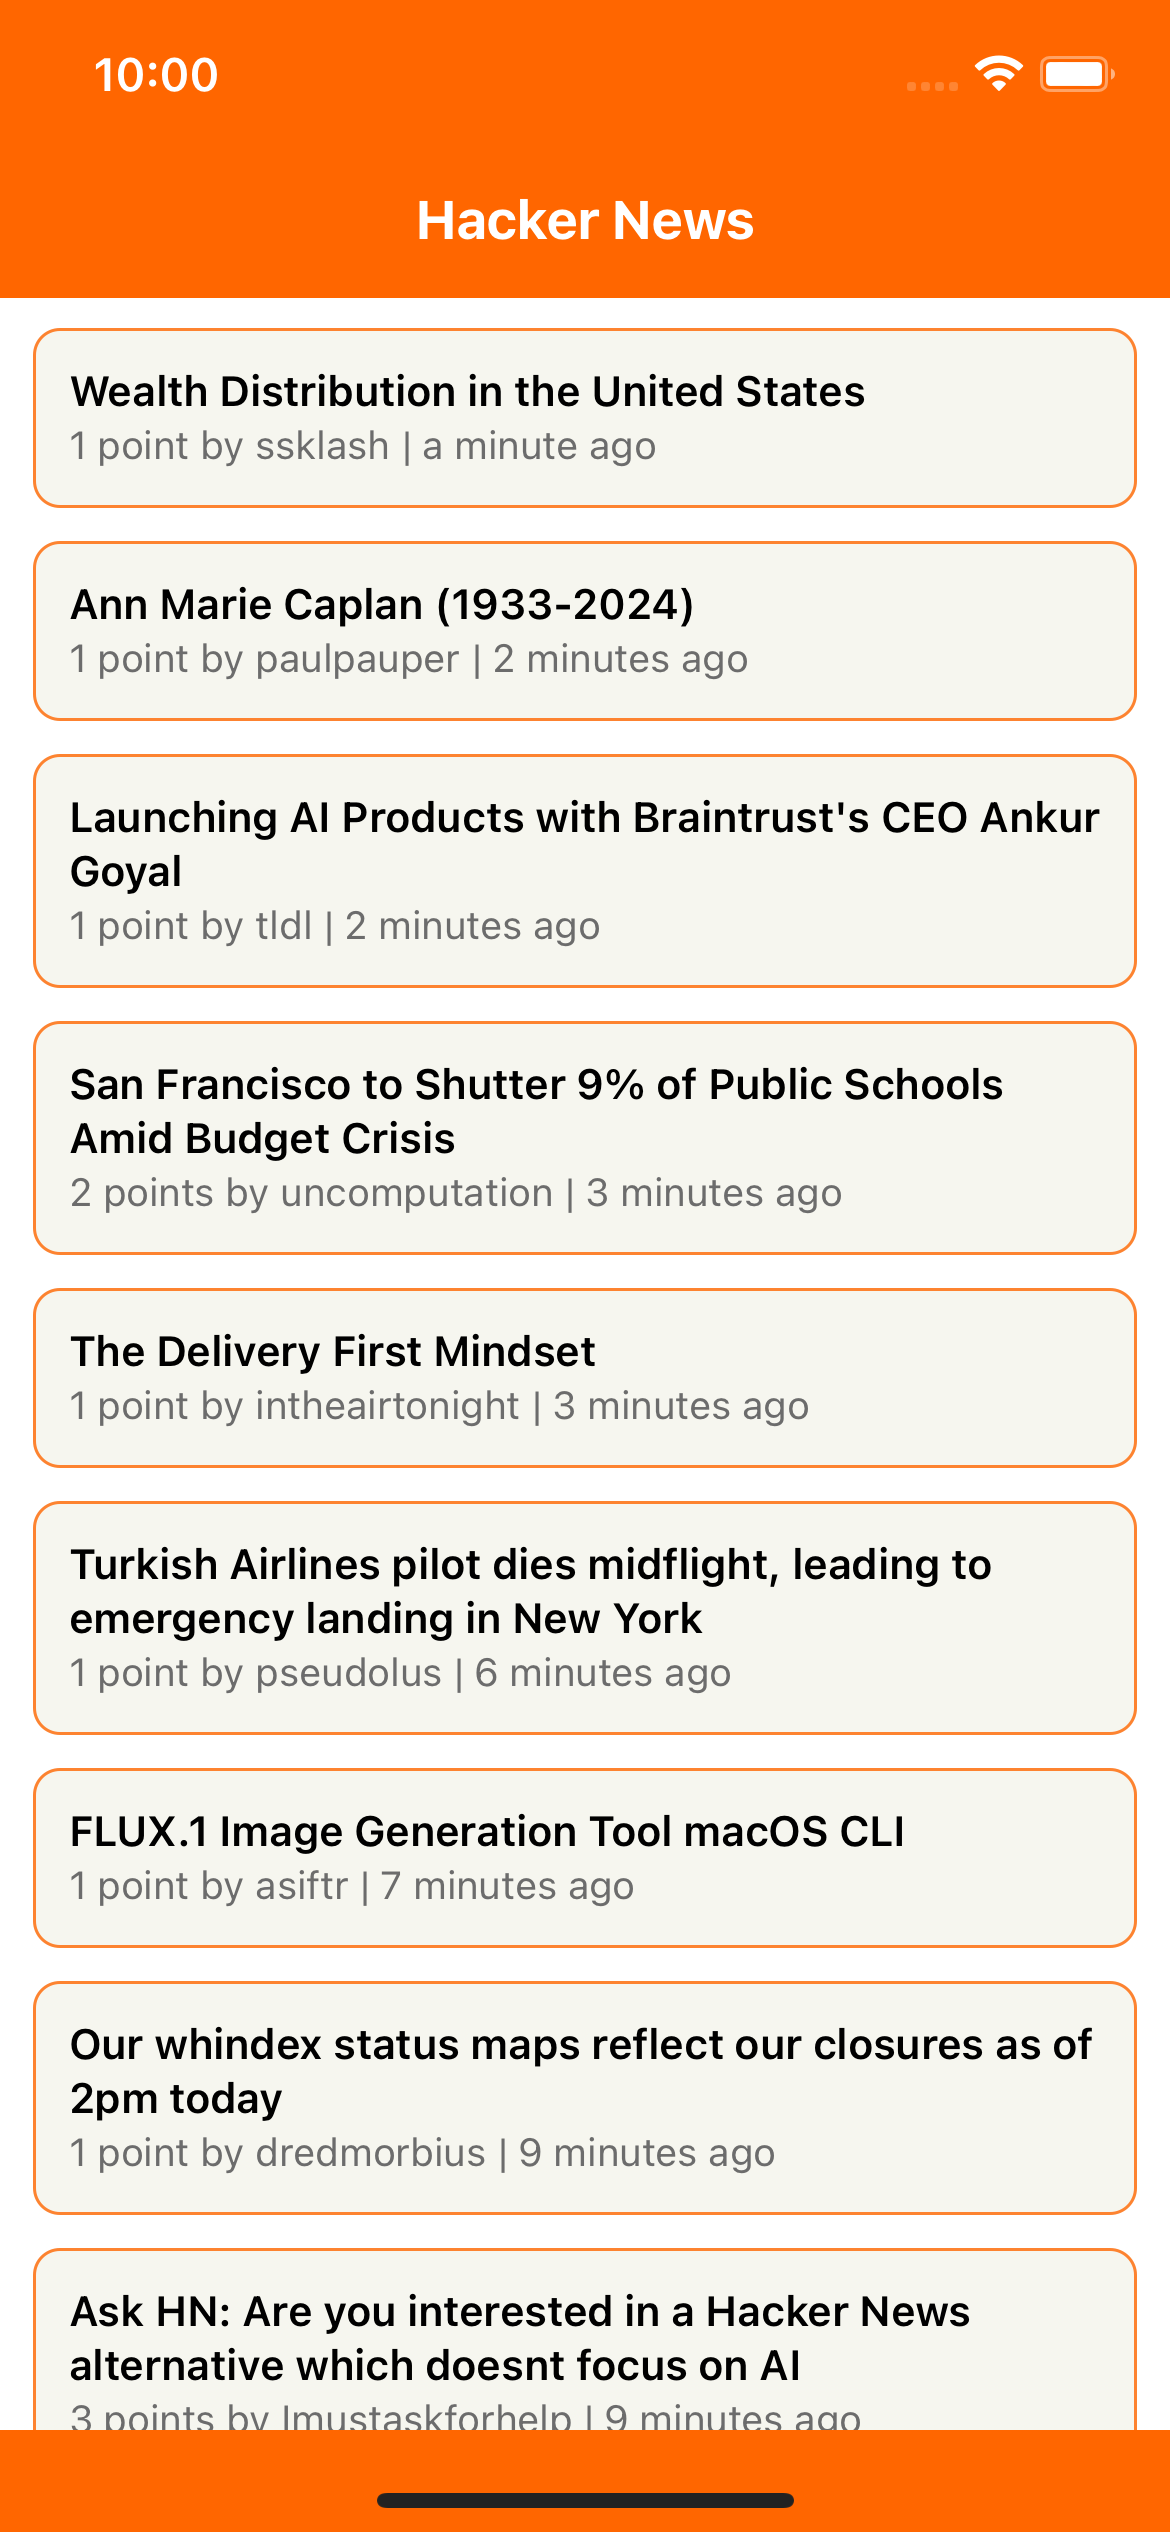
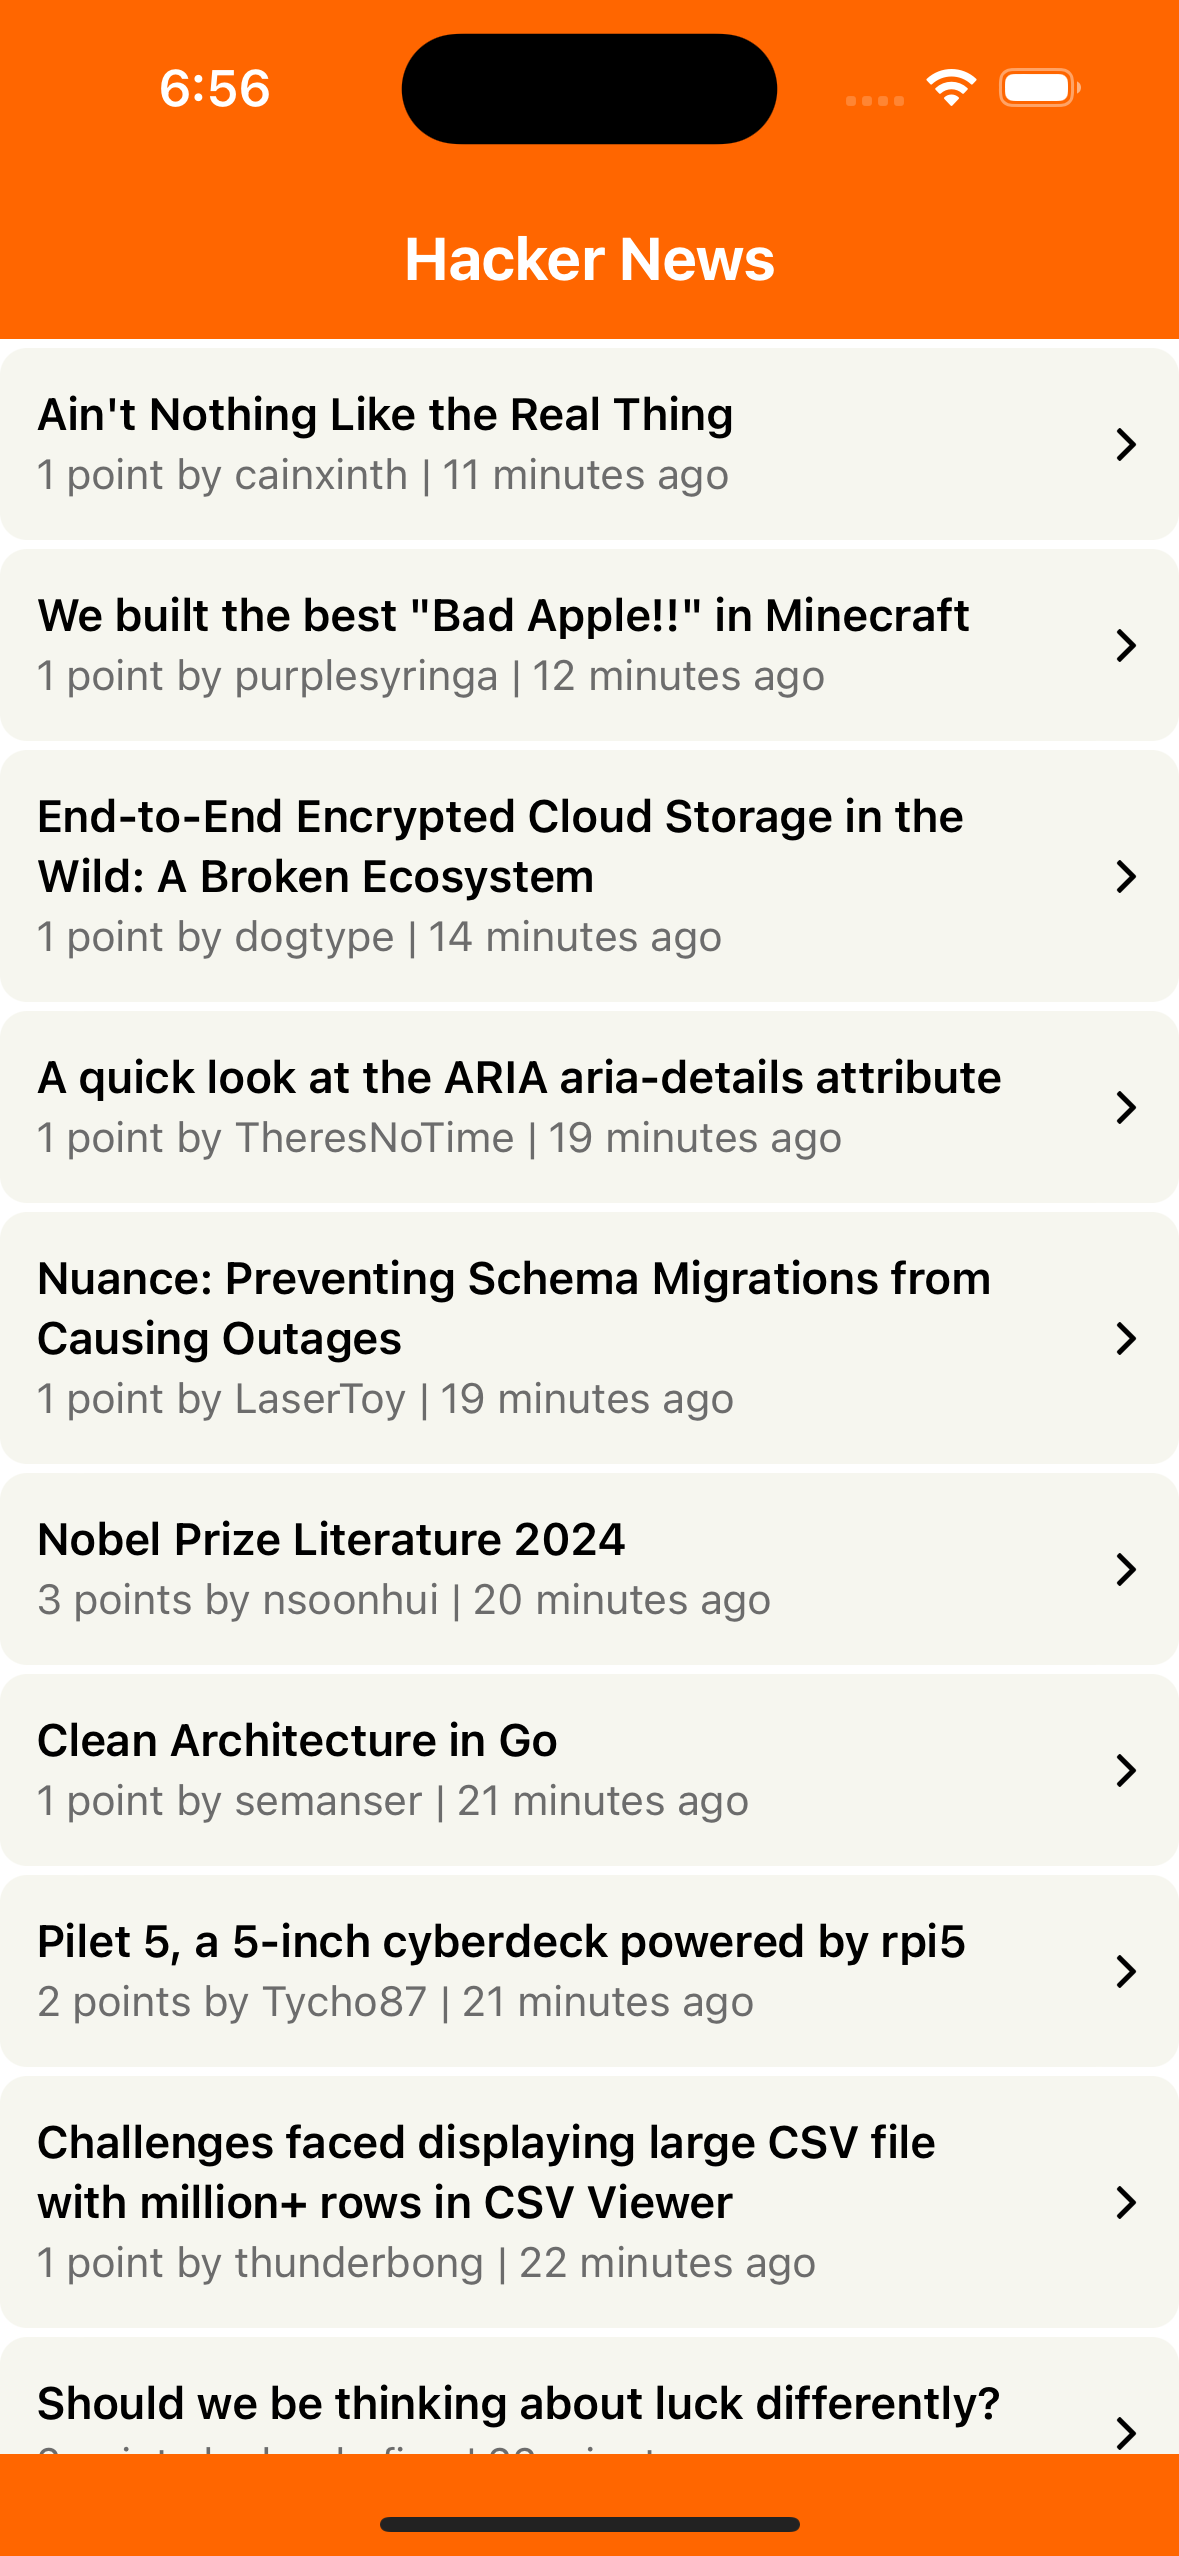
Added Network connection check and some UI changes

diff --git a/src/screens/PostDetails/post-details-screen.tsx b/src/screens/PostDetails/post-details-screen.tsx
@@ -1,34 +1,70 @@
-import React, {FC} from 'react';
-import {SafeAreaView, Text, View} from 'react-native';
+import React, { FC, useEffect, useState } from 'react';
+import { SafeAreaView, Text, View } from 'react-native';
 import WebView from 'react-native-webview';
-import {NativeStackScreenProps} from '@react-navigation/native-stack';
-import {RootParamList} from '@navigators';
-import {Header} from '@components';
-import {strings} from '@constants';
+import { NativeStackScreenProps } from '@react-navigation/native-stack';
+import { RootParamList } from '@navigators';
+import { Header } from '@components';
+import { strings } from '@constants';
 import styles from './styles';
+import NetInfo from '@react-native-community/netinfo';
 
 /**
  * Post details screen to render website
  */
 export const PostDetails: FC<
   NativeStackScreenProps<RootParamList, 'postDetails'>
-> = ({route}) => {
+> = ({ route }) => {
   // Access navigation route params
-  const {postUrl} = route.params;
+  const { postUrl } = route.params;
+  const [hasError, setHasError] = useState(false);
+  const [isConnected, setIsConnected] = useState(true); // State to track internet connection
+
+  /** Check for internet connectivity */
+  useEffect(() => {
+    const unsubscribe = NetInfo.addEventListener(state => {
+      setIsConnected(state.isConnected ?? true); // Update connection state
+    });
+
+    return () => {
+      unsubscribe(); // Clean up when component unmounts
+    };
+  }, []);
 
   /** Dispaly message for undefined url */
   const renderErrorView = () => (
     <View style={styles.errorWrapper}>
-      <Text style={styles.errorText}>{strings.noWebsite}</Text>
+      <Text style={styles.errorText}>
+        {!isConnected ? strings.noWebsite : strings.noInternet}
+      </Text>
     </View>
   );
+
+  /** Handle general WebView errors */
+  const handleError = () => {
+    setHasError(true);
+  };
+
+  /** Handle HTTP errors like 404 or 500 */
+  const handleHttpError = (syntheticEvent: any) => {
+    const { statusCode } = syntheticEvent.nativeEvent;
+    // If the status code is in the 400 or 500 range, set error state
+    if (statusCode >= 400) {
+      setHasError(true);
+    }
+  };
 
   return (
     <SafeAreaView style={styles.safeArea}>
       <View style={styles.root}>
         <Header isBack />
-        {postUrl ? (
-          <WebView source={{uri: postUrl}} startInLoadingState />
+        {postUrl && !hasError ? (
+          <WebView
+            source={{ uri: postUrl }}
+            startInLoadingState
+            mediaPlaybackRequiresUserAction={true} // disables autoplay for media elements like videos and audio
+            onError={handleError} // Handling network errors
+            onHttpError={handleHttpError} // Handling HTTP errors
+          />
         ) : (
           renderErrorView()
         )}

diff --git a/src/api/apiSlice.ts b/src/api/apiSlice.ts
@@ -1,15 +1,69 @@
 // Import the RTK Query methods from the React-specific entry point
-import {createApi, fetchBaseQuery} from '@reduxjs/toolkit/query/react';
-import {endpoints} from '@api';
+import {
+  createApi,
+  fetchBaseQuery,
+  FetchBaseQueryError,
+} from '@reduxjs/toolkit/query/react';
+import { endpoints } from '@api';
 // Use this import if you want to use "env.js" file
 import Config from 'react-native-config';
+import { Alert } from 'react-native';
+import { BaseQueryFn } from '@reduxjs/toolkit/query';
+import { strings } from '@constants';
+
+// Custom type for handling the possible return types
+type CustomError = {
+  status: number;
+  data?: {
+    message?: string;
+  };
+};
+
+// Custom baseQuery with error handling
+const baseQueryWithErrorHandling: BaseQueryFn<
+  string | { url: string; method?: string; body?: any },
+  unknown,
+  FetchBaseQueryError | CustomError
+> = async (args, api, extraOptions) => {
+  const result = await fetchBaseQuery({
+    baseUrl: Config.API_URL ?? '',
+  })(args, api, extraOptions);
+
+  if (result.error) {
+    const error = result.error as FetchBaseQueryError;
+
+    // Handle different error types
+    if ('status' in error && typeof error.status === 'number') {
+      // Handle 500 and other server errors
+      if (error.status === 500) {
+        Alert.alert(strings.serverError, strings.serverErrorMessage);
+      }
+
+      // Handle other status codes if needed
+      if (error.status >= 400 && error.status < 500) {
+        Alert.alert(
+          strings.error,
+          `${strings.errorOccurred} ${
+            (error.data as { message?: string })?.message ||
+            strings.unknownError
+          }`
+        );
+      }
+    } else if ('error' in error) {
+      // Handle network or fetch errors
+      Alert.alert(strings.networkError, strings.noConnection);
+    }
+  }
+
+  return result;
+};
 
 // Define our single API slice object
 export const apiSlice = createApi({
   // The cache reducer expects to be added at `state.api` (already default - this is optional)
   reducerPath: 'api',
   // All of our requests will have URLs starting with '/fakeApi'
-  baseQuery: fetchBaseQuery({baseUrl: Config.API_URL ?? ''}),
+  baseQuery: baseQueryWithErrorHandling,
   tagTypes: ['PostIds'],
   // The "endpoints" represent operations and requests for this server
   endpoints: builder => ({
@@ -27,4 +81,4 @@ export const apiSlice = createApi({
 });
 
 // Export the auto-generated hook for the `getPosts` query endpoint
-export const {useGetPostIDsQuery, useGetPostQuery} = apiSlice;
+export const { useGetPostIDsQuery, useGetPostQuery } = apiSlice;

diff --git a/src/components/PostItem/post-item.tsx b/src/components/PostItem/post-item.tsx
@@ -1,9 +1,10 @@
 import React from 'react';
-import {Text, TouchableOpacity, View} from 'react-native';
-import {useGetPostQuery} from '@api';
+import { Image, Text, TouchableOpacity, View } from 'react-native';
+import { useGetPostQuery } from '@api';
 import styles from './styles';
 import moment from 'moment';
-import {strings} from '@constants';
+import { strings } from '@constants';
+import { icons } from '@assets';
 
 interface PostItemProps {
   item: number;
@@ -15,10 +16,10 @@ interface PostItemProps {
  * Post item component for display post details
  */
 export const PostItem = (props: PostItemProps) => {
-  const {item, index, onPostItemPresses} = props;
+  const { item, index, onPostItemPresses } = props;
 
   /** Load post item data */
-  const {data: postDetails} = useGetPostQuery(item, {
+  const { data: postDetails } = useGetPostQuery(item, {
     refetchOnReconnect: true,
     refetchOnMountOrArgChange: true,
   });
@@ -28,15 +29,22 @@ export const PostItem = (props: PostItemProps) => {
       onPress={() => onPostItemPresses(postDetails.url)}
       key={index}
       style={styles.itemWrapper}>
-      <Text style={styles.itemTitle}>{postDetails.title}</Text>
-      <View style={{flexDirection: 'row'}}>
-        <Text style={styles.itemText}>{`${postDetails.score} ${
-          postDetails.score > 1 ? strings.points : strings.point
-        } ${strings.by}`}</Text>
-        <Text style={styles.itemText}>{` ${postDetails.by} `}</Text>
-        <Text style={styles.itemText}>{`| ${moment
-          .unix(postDetails.time)
-          .fromNow()}`}</Text>
+      <View style={{ flex: 0.9 }}>
+        <Text style={styles.itemTitle}>{postDetails.title}</Text>
+
+        <View style={{ flexDirection: 'row' }}>
+          <Text style={styles.itemText}>{`${postDetails.score} ${
+            postDetails.score > 1 ? strings.points : strings.point
+          } ${strings.by}`}</Text>
+          <Text style={styles.itemText}>{` ${postDetails.by} `}</Text>
+          <Text style={styles.itemText}>{`| ${moment
+            .unix(postDetails.time)
+            .fromNow()}`}</Text>
+        </View>
+      </View>
+
+      <View style={styles.rightIconView}>
+        <Image source={icons.rightArrow} style={styles.rightIcon} />
       </View>
     </TouchableOpacity>
   ) : null;

diff --git a/src/screens/Dashboard/dashboard-screen.tsx b/src/screens/Dashboard/dashboard-screen.tsx
@@ -9,6 +9,7 @@ import { useState } from 'react';
 import { Header, PostItem } from '@components';
 import { strings } from '@constants';
 import styles from './styles';
+import NetInfo from '@react-native-community/netinfo';
 
 // Number of post per page
 const POST_PER_PAGE = 15;
@@ -34,6 +35,19 @@ export const Dashboard: FC<
   const [currentPage, setCurrentPage] = useState(1);
   const [isLastPage, setIsLastPage] = useState(false);
   const [paginatedList, setPaginatedList] = useState<number[]>([]);
+  // State for managing internet connection status
+  const [isConnected, setIsConnected] = useState<boolean>(true);
+
+  // Listen to network connectivity status
+  useEffect(() => {
+    const unsubscribe = NetInfo.addEventListener(state => {
+      setIsConnected(state.isConnected ?? true); // Update the network status
+    });
+
+    return () => {
+      unsubscribe(); // Clean up when component unmounts
+    };
+  }, []);
 
   useEffect(() => {
     loadFirstPage();
@@ -41,6 +55,11 @@ export const Dashboard: FC<
 
   /** Handle pull to referesh post */
   const handlePullToRefresh = () => {
+    // If not connected, stop loading and return
+    if (!isConnected) {
+      return;
+    }
+
     dispatch(apiSlice.util.invalidateTags(['PostIds']));
     Promise.all([refetch()]).then(() => {
       loadFirstPage();
@@ -98,11 +117,16 @@ export const Dashboard: FC<
   };
 
   /** Render message for empty list */
-  const renderEmptyPostItem = () => (
-    <View style={styles.errorWrapper}>
-      <Text style={styles.secondoryText}>{strings.noPostFound}</Text>
-    </View>
-  );
+  const renderEmptyPostItem = () => {
+    // If there's no internet connection, return null to avoid displaying any message
+    if (!isConnected) return null;
+
+    return (
+      <View style={styles.errorWrapper}>
+        <Text style={styles.secondoryText}>{strings.noPostFound}</Text>
+      </View>
+    );
+  };
 
   return (
     <SafeAreaView style={styles.safeArea}>

diff --git a/src/components/PostItem/styles.ts b/src/components/PostItem/styles.ts
@@ -1,17 +1,18 @@
-import {ViewStyle, StyleSheet, TextStyle, ImageStyle} from 'react-native';
-import {colors} from '@theme';
-import {scale, verticalScale} from '@utils';
+import { ViewStyle, StyleSheet, TextStyle, ImageStyle } from 'react-native';
+import { colors } from '@theme';
+import { scale, verticalScale } from '@utils';
 
 export default StyleSheet.create({
   itemWrapper: {
     backgroundColor: colors.background,
     paddingVertical: verticalScale(10),
     paddingHorizontal: scale(10),
-    marginHorizontal: scale(10),
-    marginBottom: verticalScale(10),
+    marginBottom: verticalScale(2),
     borderRadius: scale(8),
     borderWidth: 1,
-    borderColor: colors.primary80,
+    borderColor: 'transparent',
+    flexDirection: 'row',
+    justifyContent: 'space-between',
   } as ViewStyle,
   itemTitle: {
     fontSize: verticalScale(14),
@@ -29,4 +30,14 @@ export default StyleSheet.create({
     width: scale(30),
     tintColor: colors.white,
   } as ImageStyle,
+  rightIcon: {
+    height: scale(10),
+    width: scale(10),
+    tintColor: colors.black,
+  } as ImageStyle,
+  rightIconView: {
+    flex: 0.1,
+    alignSelf: 'center',
+    alignItems: 'flex-end',
+  } as ViewStyle,
 });

diff --git a/src/screens/Dashboard/styles.ts b/src/screens/Dashboard/styles.ts
@@ -1,6 +1,6 @@
-import {ViewStyle, StyleSheet} from 'react-native';
-import {verticalScale} from '@utils';
-import {colors} from '@theme';
+import { ViewStyle, StyleSheet } from 'react-native';
+import { verticalScale } from '@utils';
+import { colors } from '@theme';
 
 export default StyleSheet.create({
   root: {
@@ -18,8 +18,8 @@ export default StyleSheet.create({
   } as ViewStyle,
   postDetailsContainer: {
     flexGrow: 1,
-    paddingTop: 10,
-    paddingBottom: 30,
+    paddingTop: verticalScale(2),
+    paddingBottom: verticalScale(30),
   } as ViewStyle,
   errorWrapper: {
     flex: 1,

diff --git a/src/constants/strings.ts b/src/constants/strings.ts
@@ -6,4 +6,12 @@ export const strings = {
   noWebsite: 'No website found for url!',
   noPostFound: 'No new post found!',
   loadingPost: 'Loading posts... ',
+  noInternet: 'No internet connection available.',
+  error: 'Error',
+  errorOccurred: 'An error occurred:',
+  unknownError: 'Unknown error',
+  serverError: 'Server Error',
+  serverErrorMessage: 'Internal server error. Please try again later.',
+  networkError: 'Network Error',
+  noConnection: 'No internet connection available.',
 };

diff --git a/src/assets/index.ts b/src/assets/index.ts
@@ -1,3 +1,4 @@
 export const icons = {
   backArrow: require('./left-arrow.png'),
+  rightArrow: require('./right-arrow.png'),
 };
